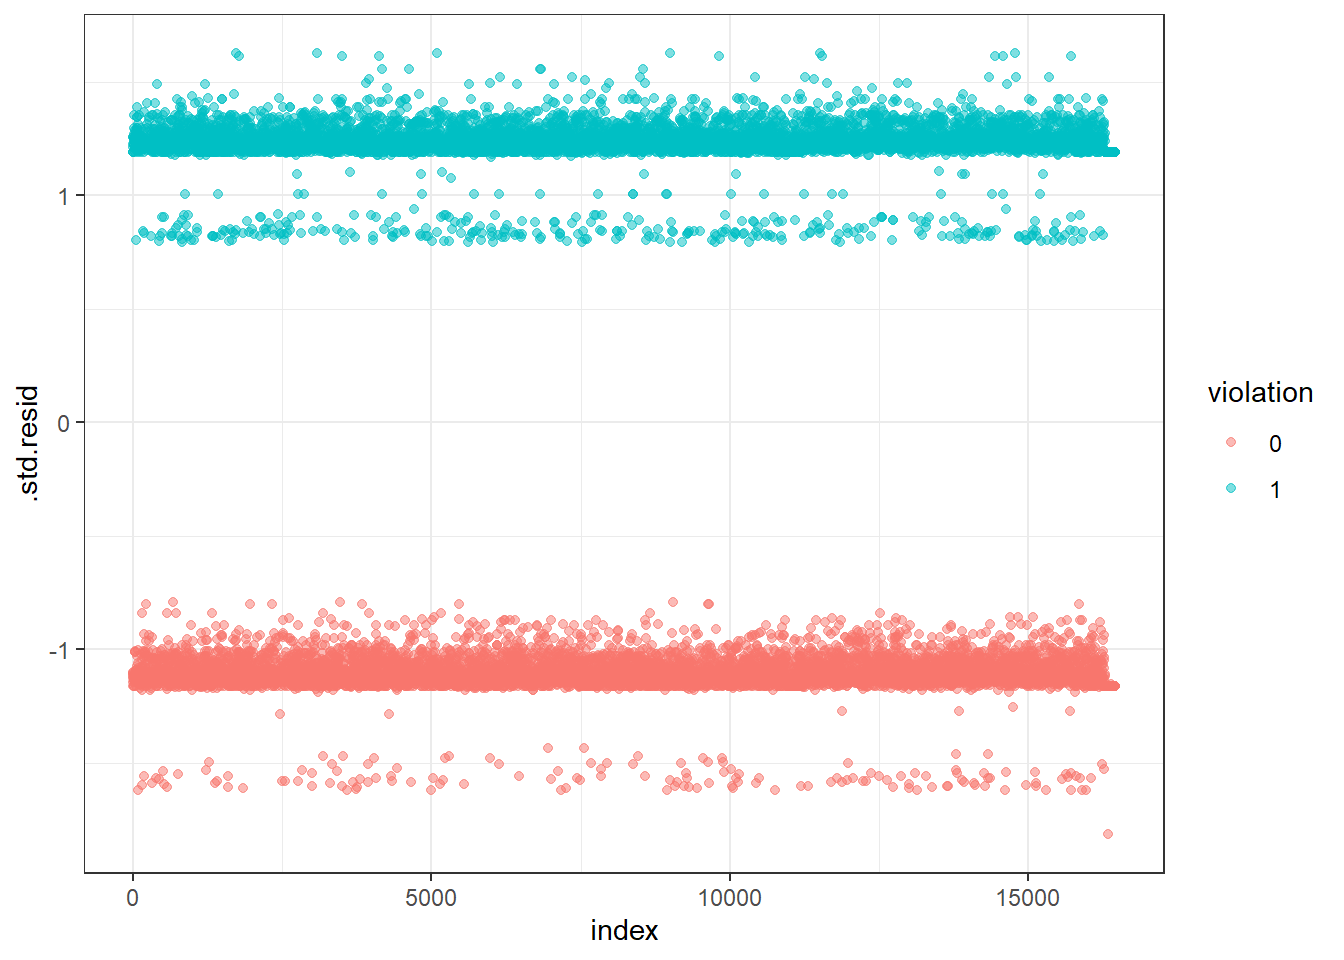
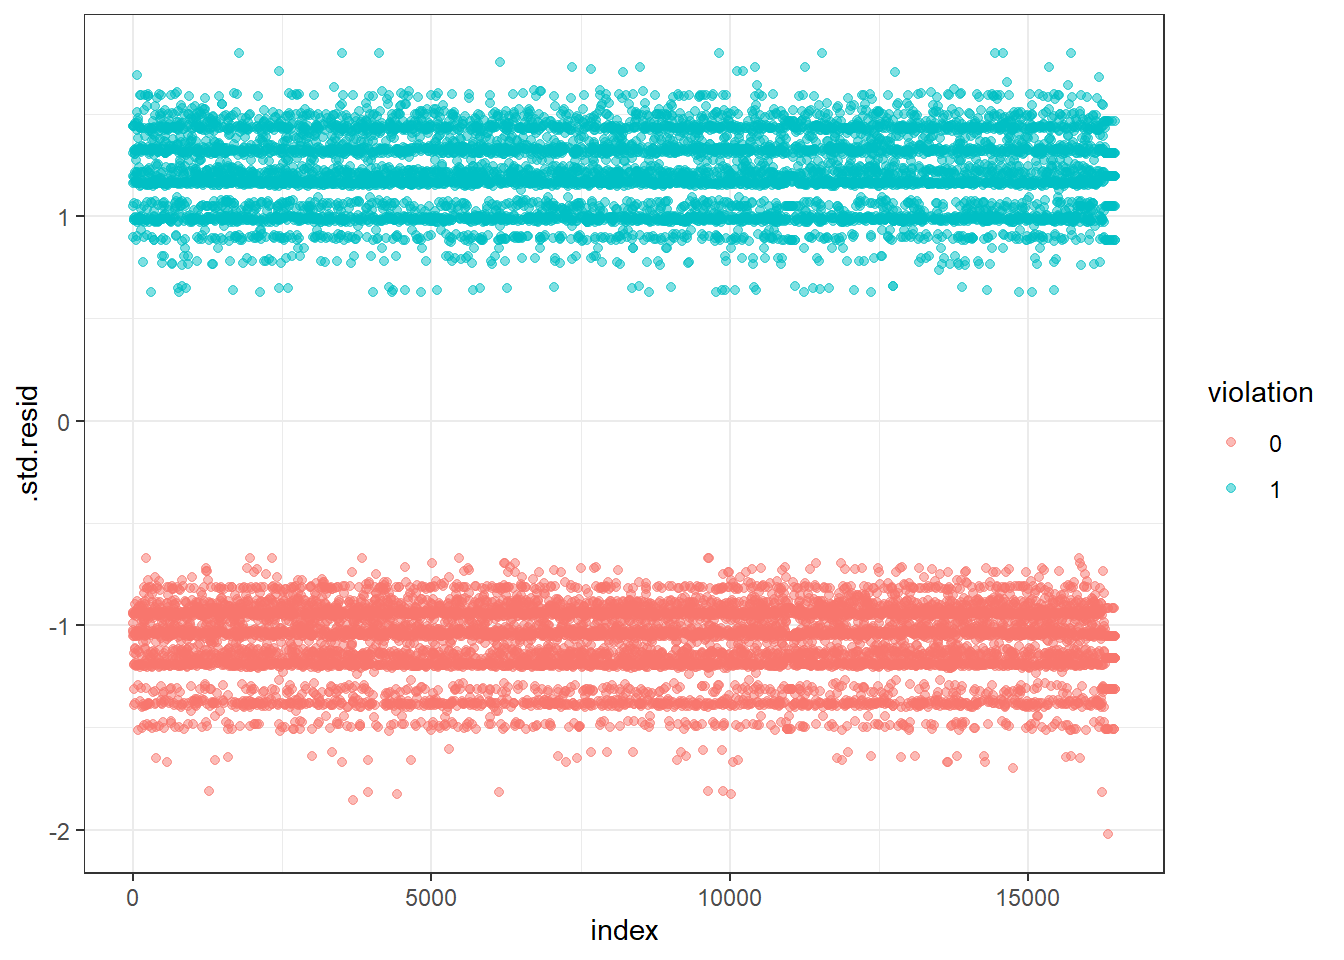
interpretation

Changed region(s): [[0.0938, 0.5625, 0.8438, 0.8438], [0.0938, 0.0312, 0.8438, 0.3125], [0.0312, 0.8438, 0.0625, 0.875]]

diff --git a/logistic.html b/logistic.html
@@ -374,7 +374,7 @@ child_data &lt;- child_data %&gt;%
 <p>#fit a logistic regression with violation vs no violation as the
 outcome and the rest as predictors.And Obtain the estimate and CI of the
 adjusted odds ratio for having violation.</p>
-<pre class="r"><code>model_log &lt;- glm(violation ~ status  + program_type + educational_worker_ratio,data = child_data,family = binomial(link=logit))
+<pre class="r"><code>model_log &lt;- glm(violation ~ borough + status  + program_type + educational_worker_ratio,data = child_data,family = binomial(link=logit))
 model_log %&gt;%
   broom::tidy(conf.int = T) %&gt;% 
   mutate(OR = exp(estimate),
@@ -404,52 +404,80 @@ model_log %&gt;%
 <tbody>
 <tr class="odd">
 <td align="left">(Intercept)</td>
-<td align="center">2.546</td>
-<td align="center">7.396</td>
-<td align="center">2.575800e+01</td>
+<td align="center">4.715</td>
+<td align="center">38.429</td>
+<td align="center">4.501930e+02</td>
+<td align="left">&lt;0.0001</td>
+</tr>
+<tr class="even">
+<td align="left">boroughBROOKLYN</td>
+<td align="center">0.351</td>
+<td align="center">1.376</td>
+<td align="center">1.472000e+00</td>
+<td align="left">&lt;0.0001</td>
+</tr>
+<tr class="odd">
+<td align="left">boroughMANHATTAN</td>
+<td align="center">0.454</td>
+<td align="center">1.506</td>
+<td align="center">1.652000e+00</td>
+<td align="left">&lt;0.0001</td>
+</tr>
+<tr class="even">
+<td align="left">boroughQUEENS</td>
+<td align="center">0.648</td>
+<td align="center">1.798</td>
+<td align="center">2.045000e+00</td>
+<td align="left">&lt;0.0001</td>
+</tr>
+<tr class="odd">
+<td align="left">boroughSTATEN ISLAND</td>
+<td align="center">0.247</td>
+<td align="center">1.230</td>
+<td align="center">1.342000e+00</td>
 <td align="left">&lt;0.0001</td>
 </tr>
 <tr class="even">
 <td align="left">statusExpired-In Renewal</td>
-<td align="center">0.379</td>
-<td align="center">1.360</td>
-<td align="center">1.593000e+00</td>
+<td align="center">0.448</td>
+<td align="center">1.438</td>
+<td align="center">1.736000e+00</td>
 <td align="left">&lt;0.0001</td>
 </tr>
 <tr class="odd">
 <td align="left">statusPermitted</td>
-<td align="center">0.358</td>
-<td align="center">1.341</td>
-<td align="center">1.544000e+00</td>
+<td align="center">0.355</td>
+<td align="center">1.337</td>
+<td align="center">1.541000e+00</td>
 <td align="left">&lt;0.0001</td>
 </tr>
 <tr class="even">
 <td align="left">program_typeinfant toddler</td>
-<td align="center">0.981</td>
-<td align="center">2.264</td>
-<td align="center">3.248000e+00</td>
-<td align="left">0.84</td>
+<td align="center">0.908</td>
+<td align="center">2.123</td>
+<td align="center">2.992000e+00</td>
+<td align="left">0.3159</td>
 </tr>
 <tr class="odd">
 <td align="left">program_typepreschool</td>
-<td align="center">1.060</td>
-<td align="center">2.485</td>
-<td align="center">3.434000e+00</td>
-<td align="left">0.45</td>
+<td align="center">1.001</td>
+<td align="center">2.355</td>
+<td align="center">3.218000e+00</td>
+<td align="left">0.9944</td>
 </tr>
 <tr class="even">
 <td align="left">program_typeschool age camp</td>
-<td align="center">2.072</td>
-<td align="center">1.219</td>
-<td align="center">2.510005e+19</td>
-<td align="left">0.55</td>
+<td align="center">1.644</td>
+<td align="center">1.164</td>
+<td align="center">4.762402e+15</td>
+<td align="left">0.6894</td>
 </tr>
 <tr class="odd">
 <td align="left">educational_worker_ratio</td>
-<td align="center">0.474</td>
-<td align="center">1.444</td>
-<td align="center">1.843000e+00</td>
-<td align="left">&lt;0.0001</td>
+<td align="center">0.706</td>
+<td align="center">1.721</td>
+<td align="center">2.503000e+00</td>
+<td align="left">0.0093</td>
 </tr>
 </tbody>
 </table>
@@ -458,35 +486,39 @@ probabilities &lt;- predict(model_log, type = &quot;response&quot;)
 predicted.classes &lt;- ifelse(probabilities &gt; 0.5, &quot;pos&quot;, &quot;neg&quot;)
 head(predicted.classes)</code></pre>
 <pre><code>##     1     2     3     4     5     6 
-## &quot;neg&quot; &quot;neg&quot; &quot;neg&quot; &quot;neg&quot; &quot;neg&quot; &quot;neg&quot;</code></pre>
+## &quot;neg&quot; &quot;neg&quot; &quot;neg&quot; &quot;neg&quot; &quot;neg&quot; &quot;pos&quot;</code></pre>
 <pre class="r"><code>#probabilities</code></pre>
 <pre class="r"><code>summary(model_log)</code></pre>
 <pre><code>## 
 ## Call:
-## glm(formula = violation ~ status + program_type + educational_worker_ratio, 
+## glm(formula = violation ~ borough + status + program_type + educational_worker_ratio, 
 ##     family = binomial(link = logit), data = child_data)
 ## 
 ## Deviance Residuals: 
-##    Min      1Q  Median      3Q     Max  
-## -1.617  -1.117  -1.012   1.233   1.624  
+##     Min       1Q   Median       3Q      Max  
+## -1.8520  -1.0508  -0.8782   1.1727   1.7934  
 ## 
 ## Coefficients:
-##                             Estimate Std. Error z value Pr(&gt;|z|)    
-## (Intercept)                  0.93445    0.12360   7.560 4.02e-14 ***
-## statusExpired-In Renewal    -0.96972    0.10542  -9.199  &lt; 2e-16 ***
-## statusPermitted             -1.02804    0.10052 -10.227  &lt; 2e-16 ***
-## program_typeinfant toddler  -0.01907    0.09333  -0.204    0.838    
-## program_typepreschool        0.05803    0.07757   0.748    0.454    
-## program_typeschool age camp  0.72841    1.22644   0.594    0.553    
-## educational_worker_ratio    -0.74612    0.13009  -5.735 9.73e-09 ***
+##                               Estimate Std. Error z value Pr(&gt;|z|)    
+## (Intercept)                  1.5508044  0.1314607  11.797  &lt; 2e-16 ***
+## boroughBROOKLYN             -1.0465054  0.0487599 -21.462  &lt; 2e-16 ***
+## boroughMANHATTAN            -0.7905779  0.0518737 -15.240  &lt; 2e-16 ***
+## boroughQUEENS               -0.4339075  0.0503992  -8.609  &lt; 2e-16 ***
+## boroughSTATEN ISLAND        -1.3983570  0.0896874 -15.591  &lt; 2e-16 ***
+## statusExpired-In Renewal    -0.8025015  0.1065993  -7.528 5.14e-14 ***
+## statusPermitted             -1.0349521  0.1013003 -10.217  &lt; 2e-16 ***
+## program_typeinfant toddler  -0.0960457  0.0957691  -1.003  0.31591    
+## program_typepreschool        0.0005541  0.0792675   0.007  0.99442    
+## program_typeschool age camp  0.4969849  1.2435739   0.400  0.68942    
+## educational_worker_ratio    -0.3480415  0.1339063  -2.599  0.00935 ** 
 ## ---
 ## Signif. codes:  0 &#39;***&#39; 0.001 &#39;**&#39; 0.01 &#39;*&#39; 0.05 &#39;.&#39; 0.1 &#39; &#39; 1
 ## 
 ## (Dispersion parameter for binomial family taken to be 1)
 ## 
 ##     Null deviance: 22719  on 16453  degrees of freedom
-## Residual deviance: 22548  on 16447  degrees of freedom
-## AIC: 22562
+## Residual deviance: 21933  on 16443  degrees of freedom
+## AIC: 21955
 ## 
 ## Number of Fisher Scoring iterations: 4</code></pre>
 <p>##We can see from the summary that the licence status and educational
@@ -690,10 +722,27 @@ ggplot(model_log.data, aes(index, .std.resid)) +
   geom_point(aes(color = violation), alpha = .5) +
   theme_bw()</code></pre>
 <p><img src="logistic_files/figure-html/unnamed-chunk-12-1.png" width="672" /></p>
-<p>###Diagnostic Conclusion</p>
-<p>From the plot we can see that the standard deviation of the data are
-all in acceptable region which means there’s no significant outliers in
-the dataset.</p>
+<p>###Diagnostic Conclusion From the plot we can see that the standard
+deviation of the data are all in acceptable region which means there’s
+no significant outliers in the dataset.</p>
+<p>###Model interpretation In this model, the outcome is log of odds
+ratio of violation rate. Our key predictor is the numeric variable of
+“educational_worker_ratio”, which is the program-specific total number
+of educational worker in each center, divided by the maximum capacity,
+based on the square footage of class and play rooms, the number of
+toilets and sinks, and overall estimates from the NYC Department of
+Buildings. Our model suggests the log of odds ratio of estimated mean
+violation rate decreases by 34.8% for each unit increase in educational
+worker ratio, while holding all other variables fixed.</p>
+<p>We also included several categorical variables into our model. Based
+on the output, the interpretations of coefficients estimates are as
+follows:</p>
+<p>The estimated mean violation rates for centers located in Brooklyn,
+Manhattan, Queens and Staten island are less than centers located in
+Bronx, respectively, while holding other variables constant.</p>
+<p>The estimated mean violation rate for centers with licence status as
+expired in renewal and as permitted is less than centers with licence
+status as active, while holding other variables constant.</p>
 
 
 
